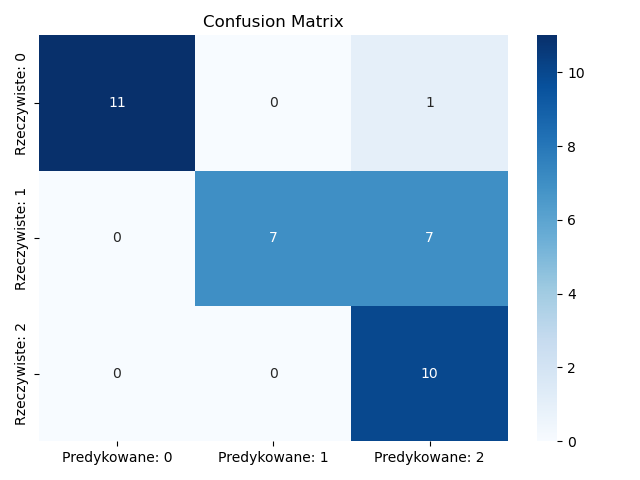
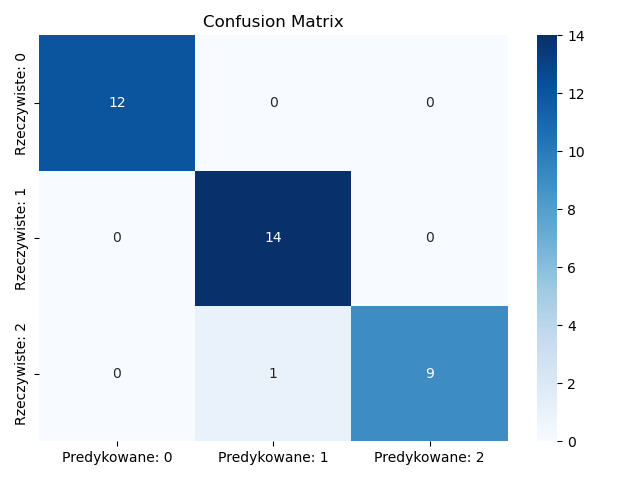
Refactor data preprocessing in One-vs-Rest script: add standardization and normalization steps

diff --git a/scripts/run_one_vs_rest.py b/scripts/run_one_vs_rest.py
@@ -1,6 +1,6 @@
 from pathlib import Path
 from sklearn.model_selection import train_test_split
-
+from sklearn.preprocessing import StandardScaler, Normalizer
 from src.data.loader import load_wine_data
 from src.models.one_vs_rest import OneVsRestClassifier
 from src.utils.metrics import (
@@ -18,11 +18,23 @@ def main():
     results_dir = Path("docs/task_ovr_wine_results")
     ensure_directory(results_dir)
 
-    # load and split wine dataset
+    # load wine dataset
     X, y = load_wine_data()
+
+    # split into train/test
     X_train, X_test, y_train, y_test = train_test_split(
         X, y, test_size=0.2, random_state=42, stratify=y
     )
+
+    # standardization (mean=0, std=1)
+    scaler = StandardScaler()
+    X_train = scaler.fit_transform(X_train)
+    X_test = scaler.transform(X_test)
+
+    # vector normalization (L2)
+    normalizer = Normalizer(norm="l2")
+    X_train = normalizer.fit_transform(X_train)
+    X_test = normalizer.transform(X_test)
 
     # train One-vs-Rest perceptron
     ovr = OneVsRestClassifier(learning_rate=0.01, n_iter=1000, tolerance=1e-4)
